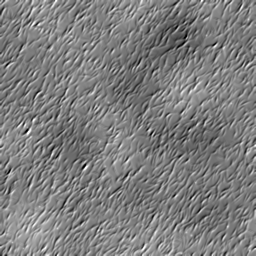
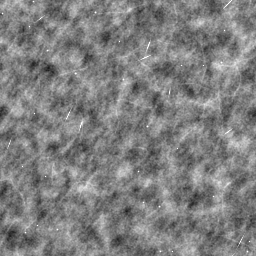
책 질감 평평하게, 시안 명암·테두리·그림자 방향 맞춤, 쌓은 책 안쪽 정렬

diff --git a/app/src/ui/shelf/ShelfShadows.tsx b/app/src/ui/shelf/ShelfShadows.tsx
@@ -36,7 +36,7 @@ export const ShelfShadows = memo(function ShelfShadows({ frames, scale: s, hidde
   const paths = useMemo(() => {
     const X = (x: number) => (SHELF.sideMargin + x) * s;
     const Y = (y: number) => (clear + y - FLOOR) * s;
-    return layers.map((l) => visible.map((f) => toPath(castShape(f.poly, l.dx, l.dy).map((p) => ({ x: X(p.x), y: Y(p.y) })))));
+    return layers.map((l) => visible.map((f) => toPath(castShape(f.poly, l.dx, l.dy, l.blur).map((p) => ({ x: X(p.x), y: Y(p.y) })))));
   }, [visible, layers, s, clear]);
   // 바닥에서 위로 옅어지는 색(fade)
   const gradColors = fade.map(([, k]) => rgba(colors.shadow, k));
@@ -70,12 +70,12 @@ export const ShelfContacts = memo(function ShelfContacts({ frames, scale: s, hid
         {frames.map((f) => {
           if (f.bookId === hiddenId || f.stackIndex > 0) return null;
           const c = contactOf(f.poly);
-          const cx = (SHELF.sideMargin + c.cx + 1.5) * s;
+          const cx = (SHELF.sideMargin + c.cx + shadow.contact.shift) * s;
           const rx = (c.half + shadow.contact.spread) * s;
           const ry = shadow.contact.height * s;
           return (
             <Oval key={f.bookId} x={cx - rx} y={floorY + 0.5 * s - ry} width={rx * 2} height={ry * 2} color={rgba(colors.shadow, shadow.contact.opacity)}>
-              <BlurMask blur={1.6 * s} style="normal" />
+              <BlurMask blur={shadow.contact.blur * s} style="normal" />
             </Oval>
           );
         })}

diff --git a/app/src/domain/geometry.ts b/app/src/domain/geometry.ts
@@ -150,11 +150,25 @@ export function visibleBookOutline(book: Book, p: Pick<BookPlacement, 'pose' | '
 }
 
 // 쌓기 그룹: 폭은 (어긋남 포함) 가장 긴 책, 높이는 두께의 합.
+// 쌓인 책의 왼쪽 어긋남(DU). 아래 책보다 짧은 책은 아래 책 안쪽(가운데보다 조금 오른쪽)에 올린다(시안).
+// 같거나 긴 책은 정해진 어긋남(STACK_OFFSETS)을 쓴다.
+export function stackOffsets(books: Book[]) {
+  const out: number[] = [];
+  books.forEach((b, i) => {
+    if (i === 0) return out.push(0);
+    const below = bookHeight(books[i - 1]);
+    const d = below - bookHeight(b);
+    out.push(d > 0 ? out[i - 1] + d * 0.6 : (STACK_OFFSETS[i] ?? 0));
+  });
+  return out;
+}
+
 export function stackFootprint(books: Book[]) {
   let width = 0;
   let height = TOP_FACE;
+  const offs = stackOffsets(books);
   books.forEach((b, i) => {
-    width = Math.max(width, bookHeight(b) + (STACK_OFFSETS[i] ?? 0));
+    width = Math.max(width, bookHeight(b) + offs[i]);
     height += bookThickness(b);
   });
   return { width, height };

diff --git a/app/src/domain/shadow-shape.ts b/app/src/domain/shadow-shape.ts
@@ -19,8 +19,12 @@ export function hull(points: Point[]): Point[] {
 }
 
 // 빛 반대쪽(dx, dy)으로 옮긴 윤곽과 원래 윤곽을 이은 모양: 비스듬히 가로지르는 그림자
-export function castShape(poly: Point[], dx: number, dy: number) {
-  return hull([...poly, ...poly.map((p) => ({ x: p.x + dx, y: p.y + dy }))]);
+// blur(표준편차)를 주면 시작 윤곽도 빛 반대쪽으로 조금 민다. 흐림이 빛 쪽(왼쪽·위)으로 새어
+// 책 둘레에 후광처럼 번지지 않게 한다(시안: 그림자는 오른쪽 아래로만 떨어진다).
+export function castShape(poly: Point[], dx: number, dy: number, blur = 0) {
+  const lx = Math.min(dx, 2 * blur);
+  const ly = Math.min(dy, blur);
+  return hull([...poly.map((p) => ({ x: p.x + lx, y: p.y + ly })), ...poly.map((p) => ({ x: p.x + dx, y: p.y + dy }))]);
 }
 
 export function rgba(hex: string, alpha: number) {

diff --git a/app/src/domain/shelf-scene.ts b/app/src/domain/shelf-scene.ts
@@ -6,7 +6,7 @@ import {
   FRONT_SIDE,
   frontWidth,
   SHELF,
-  STACK_OFFSETS,
+  stackOffsets,
   TOP_FACE,
 } from './geometry';
 import { itemPositions, placementOf, shelfItems, type BookMap } from './layout-engine';
@@ -95,11 +95,12 @@ export function computeShelf(layout: ShelfLayout, books: BookMap, shelfId: strin
     items.push({ key: item.key, x, width, bookIds: item.bookIds });
     if (item.stacked) {
       let bottom = FLOOR;
+      const offs = stackOffsets(item.bookIds.map((id) => books[id]));
       item.bookIds.forEach((id, i) => {
         const b = books[id];
         const len = bookHeight(b);
         const t = bookThickness(b);
-        const left = x + (STACK_OFFSETS[i] ?? 0);
+        const left = x + offs[i];
         const top = bottom - t - TOP_FACE;
         frames.push({
           bookId: id, itemKey: item.key, shelfId, pose: 'horizontal', tilt: 0,

diff --git a/app/src/ui/theme.ts b/app/src/ui/theme.ts
@@ -47,7 +47,7 @@ export const typeScale = {
 
 // 그림자 토큰. 빛은 화면 좌상단, 외부 그림자는 화면 좌표 기준 오른쪽 아래.
 export const shadow = {
-  contact: { opacity: 0.38, height: 1.8, spread: 1.5 }, // 선반에 닿는 좁은 그림자
+  contact: { opacity: 0.42, height: 1.4, spread: -1, shift: 2, blur: 1 }, // 선반에 닿는 좁은 그림자(책 밑에만, 빛 반대쪽으로 조금)
   // 책이 뒤 벽에 드리우는 그림자. 빛이 왼쪽 위에서 비스듬히 오므로, 책 윤곽을 오른쪽 아래로 옮긴 모양과
   // 원래 윤곽을 이은 볼록 껍질(비스듬히 가로지르는 그림자)을 가우시안 블러로 흐린다.
   // 책에 붙은 짧은 그림자와 거리별 두 확산층(멀수록 흐려지는 반그림자).

diff --git a/app/scripts/extract-body-assets.py b/app/scripts/extract-body-assets.py
@@ -82,49 +82,92 @@ def measure_grain(img):
     return stds
 
 
+def _bands(t, k=1.0):
+    """결을 굵기별로 나눈 세기: 미세(<0.5DU) / 중간(0.5~1.5DU) / 얼룩(1.5~4DU). k = 1DU의 px."""
+    g = lambda s: cv2.GaussianBlur(t, (0, 0), s * k, borderType=cv2.BORDER_REFLECT)
+    a, b, c = g(0.5), g(1.5), g(4)
+    return np.array([(t - a).std(), (a - b).std(), (b - c).std()])
+
+
 def brush_detail(img):
-    """시안의 과슈 붓결: 촘촘하고 짧은 붓자국(주로 '/' 방향, 일부 '\\')의 높이를 그린 뒤,
-    왼쪽 위 빛으로 음영을 내서 물감이 살짝 볼록한 느낌을 만든다. + 드문 밝은 점, 옅은 얼룩.
-    타일 경계 너머로 이어 그려 이음새 없이 반복된다."""
+    """시안의 과슈 질감: 요철(빛 방향 음영) 없이 평평한 물감 얼룩 + 약간 비스듬한 결 + 드문 밝은 점·잔 긁힘.
+    각 성분은 걸러 낸 잡음이라 타일 경계에서 이음새 없이 반복된다.
+    굵기별 세기는 시안 책 면(데미안)에서 잰 비율에 맞춘다."""
     n = GRAIN_SIZE
-    rng = np.random.default_rng(11)
-    height = np.zeros((n, n), np.float32)
-    yy, xx = np.mgrid[-12:13, -12:13].astype(np.float32)
+    k = 941 / 390  # 1DU = 시안 px
+    rng = np.random.default_rng(21)
+    fy = np.fft.fftfreq(n)[:, None]
+    fx = np.fft.fftfreq(n)[None, :]
 
-    def stamp(field, cx, cy, kernel):
-        k = kernel.shape[0] // 2
-        ys = (np.arange(-k, k + 1) + int(cy)) % n
-        xs = (np.arange(-k, k + 1) + int(cx)) % n
-        field[np.ix_(ys, xs)] += kernel
+    def noise(sig, stretch=1.0, ang=0.0):
+        # 가우시안으로 거른 흰 잡음(주파수 영역이라 둥글게 이어진다). stretch>1이면 ang 방향으로 길쭉.
+        u = fx * np.cos(ang) + fy * np.sin(ang)
+        v = -fx * np.sin(ang) + fy * np.cos(ang)
+        filt = np.exp(-2 * np.pi**2 * sig**2 * ((u * stretch) ** 2 + (v) ** 2))
+        out = np.real(np.fft.ifft2(np.fft.fft2(rng.standard_normal((n, n))) * filt))
+        return (out / out.std()).astype(np.float32)
 
-    for _ in range(3600):
-        main = rng.random() < 0.7
-        ang = np.radians(rng.normal(-55, 14) if main else rng.normal(50, 18))  # 화면 좌표: -55도 = '/'
-        length = rng.uniform(5, 12)
-        width = rng.uniform(1.1, 1.9)
-        bend = rng.normal(0, 0.03)
+    blot = noise(4.2) + 0.25 * noise(9.0)  # 물감 얼룩
+    streak = noise(1.3, stretch=1.8, ang=np.radians(-55))  # 비스듬한 붓결(짧고 옅게)
+    fine = noise(0.55)  # 종이 결
+    marks = np.zeros((n, n), np.float32)
+    yy, xx = np.mgrid[-10:11, -10:11].astype(np.float32)
+
+    def stamp(cx, cy, kern):
+        r = kern.shape[0] // 2
+        ys = (np.arange(-r, r + 1) + int(cy)) % n
+        xs = (np.arange(-r, r + 1) + int(cx)) % n
+        marks[np.ix_(ys, xs)] += kern
+
+    for _ in range(28):  # 밝은 점
+        r = rng.uniform(0.5, 0.9)
+        stamp(rng.uniform(0, n), rng.uniform(0, n), rng.uniform(0.6, 1.0) * np.exp(-(xx**2 + yy**2) / (r * r)))
+    for _ in range(10):  # 잔 긁힘(가늘고 밝은 짧은 선)
+        ang = np.radians(rng.normal(-55, 20))
         u = xx * np.cos(ang) + yy * np.sin(ang)
-        v = -xx * np.sin(ang) + yy * np.cos(ang) - bend * u * u
-        stamp(height, rng.uniform(0, n), rng.uniform(0, n), rng.uniform(0.4, 1.0) * np.exp(-((u / (length / 2)) ** 2) - (v / (width / 2)) ** 2))
-    # 왼쪽 위에서 오는 빛으로 음영(볼록한 붓자국)
-    gy, gx = np.gradient(height)
-    tex = -(gx + gy) / np.sqrt(2)
-    tex = tex / tex.std()
-    spots = np.zeros((n, n), np.float32)
-    for _ in range(35):  # 밝은 점
-        r = rng.uniform(0.6, 1.1)
-        stamp(spots, rng.uniform(0, n), rng.uniform(0, n), np.exp(-(xx**2 + yy**2) / (r * r)))
-    f = np.fft.fft2(rng.standard_normal((n, n)))
-    ky = np.fft.fftfreq(n)[:, None]
-    kx = np.fft.fftfreq(n)[None, :]
-    blot = np.real(np.fft.ifft2(f * np.exp(-2 * (np.pi**2) * (kx**2 + ky**2) * 18**2)))
-    tex = tex + 2.5 * spots + 0.3 * blot / blot.std()
-    tex = cv2.GaussianBlur(tex, (0, 0), 0.6)
-    stds = measure_grain(img)
-    tex = tex / tex.std() * float(np.median(stds))
+        v = -xx * np.sin(ang) + yy * np.cos(ang)
+        stamp(rng.uniform(0, n), rng.uniform(0, n), 0.5 * np.exp(-((u / rng.uniform(3, 7)) ** 2) - (v / 0.45) ** 2))
+    marks /= marks.std() + 1e-6
+    # 물결치는 가는 결(붓자국 가장자리·종이 섬유): 부드럽게 휘는 짧은 곡선, 밝은 것과 어두운 것
+    veins = np.zeros((n * 4, n * 4), np.uint8)
+    for i in range(70):
+        x, y = rng.uniform(0, n * 4), rng.uniform(0, n * 4)
+        a = np.radians(rng.normal(-40, 35))
+        pts = []
+        for _ in range(int(rng.uniform(25, 60))):
+            pts.append((x, y))
+            a += rng.normal(0, 0.12)
+            x += 4 * np.cos(a)
+            y += 4 * np.sin(a)
+        val = 200 if i % 3 else 60
+        for dx in (-n * 4, 0, n * 4):
+            for dy in (-n * 4, 0, n * 4):
+                cv2.polylines(veins, [np.int32([(px + dx, py + dy) for px, py in pts])], False, val, 2, cv2.LINE_AA)
+    vein = cv2.resize(veins.astype(np.float32), (n, n), interpolation=cv2.INTER_AREA)
+    vein = np.where(vein > 0, vein - 0, 0)
+    vein = (vein * (veins.reshape(n, 4, n, 4).max(axis=(1, 3)) >= 200) - vein * (veins.reshape(n, 4, n, 4).max(axis=(1, 3)) < 200))
+    vein = cv2.GaussianBlur(np.pad(vein, 4, mode="wrap"), (0, 0), 0.6)[4:-4, 4:-4]
+    vein /= vein.std() + 1e-6
+
+    # 굵기별 세기(%). 시안 데미안 면을 확대해 본 인상에 맞춘 값: 얼룩은 은은하게, 잔결·긁힘이 먼저 보인다.
+    # (시안 면을 그대로 재면 책등 명암·가장자리까지 섞여 얼룩 값이 부풀어서 쓰지 않는다)
+    target = np.array([1.6, 1.5, 1.7]) / 100
+    w = np.array([1.0, 1.0, 1.0, 0.6, 0.45])
+    comps = [fine, streak, blot, marks, vein]
+    for _ in range(8):
+        tex = sum(wi * c for wi, c in zip(w, comps))
+        got = _bands(tex, k)
+        w[0] *= target[0] / got[0]
+        w[1] *= target[1] / got[1]
+        w[2] *= target[2] / got[2]
+        w[3] = 0.6 * w[0]
+        w[4] = 0.45 * w[0]
+    tex = sum(wi * c for wi, c in zip(w, comps))
+    tex -= tex.mean()
+    print("grain bands(%)", np.round(_bands(tex, k) * 100, 2), "std", round(float(tex.std()), 4))
+    # 명암 차를 5배로 담는다(앱에서 GRAIN_STRENGTH로 줄인다)
     tile = np.clip(128 + tex * 128 * 5.0, 0, 255).astype(np.uint8)
     Image.fromarray(np.dstack([tile, tile, tile, np.full_like(tile, 255)])).save(os.path.join(OUT, "brush-detail.png"), optimize=True)
-    print("grain std(ratio)", [round(v, 4) for v in stds])
     return tile.shape
 
 

diff --git a/docs/assets.md b/docs/assets.md
@@ -17,7 +17,9 @@
 - 자세별 점유 폭: 세움 = 두께, 누움 = 책 높이, 표지 = 표지 폭 + 옆면, 쌓기 = 가장 긴 책.
 - 예: 300쪽 책은 한 선반에 세워서 9권.
 - 가운데 시점: 화면 가운데보다 왼쪽 책은 오른쪽 옆면, 오른쪽 책은 왼쪽 옆면이 보이고 가운데에 가까울수록 옆면이 좁다(`geometry.ts` `viewOf`).
-- 붓결: `extract-body-assets.py`가 짧은 붓자국 높이를 그려 왼쪽 위 빛으로 음영을 낸다(시안 결 세기에 맞춤).
+- 붓결: `extract-body-assets.py`가 요철 음영 없이 평평한 물감 얼룩 + 옅은 비스듬한 결 + 드문 밝은 점·잔 긁힘을 합성한다(굵기별 세기는 시안 데미안 면을 보고 맞춤).
+- 명암: 책등은 앞면(왼쪽 가까이 가장 밝음) → 좁은 홈(어두운 책만) → 한 톤 어두운 옆면. 그늘은 회색이 아니라 따뜻한 갈색 쪽으로 어두워진다(채널별 지수). 실루엣에는 책 색을 어둡게 한 또렷한 선을 두른다.
+- 그림자: 빛 반대쪽(오른쪽 아래)으로만 떨어진다. 흐림이 왼쪽·위로 새지 않게 시작 윤곽도 조금 민다.
 - 예시 18권은 실제 책(판형·쪽수는 공개 서지 기준 대략값, 서지 API 연동 시 교체).
 
 ## 선반 PNG 측정값(shelf-plank, 정규화, 투명 여백 포함)
